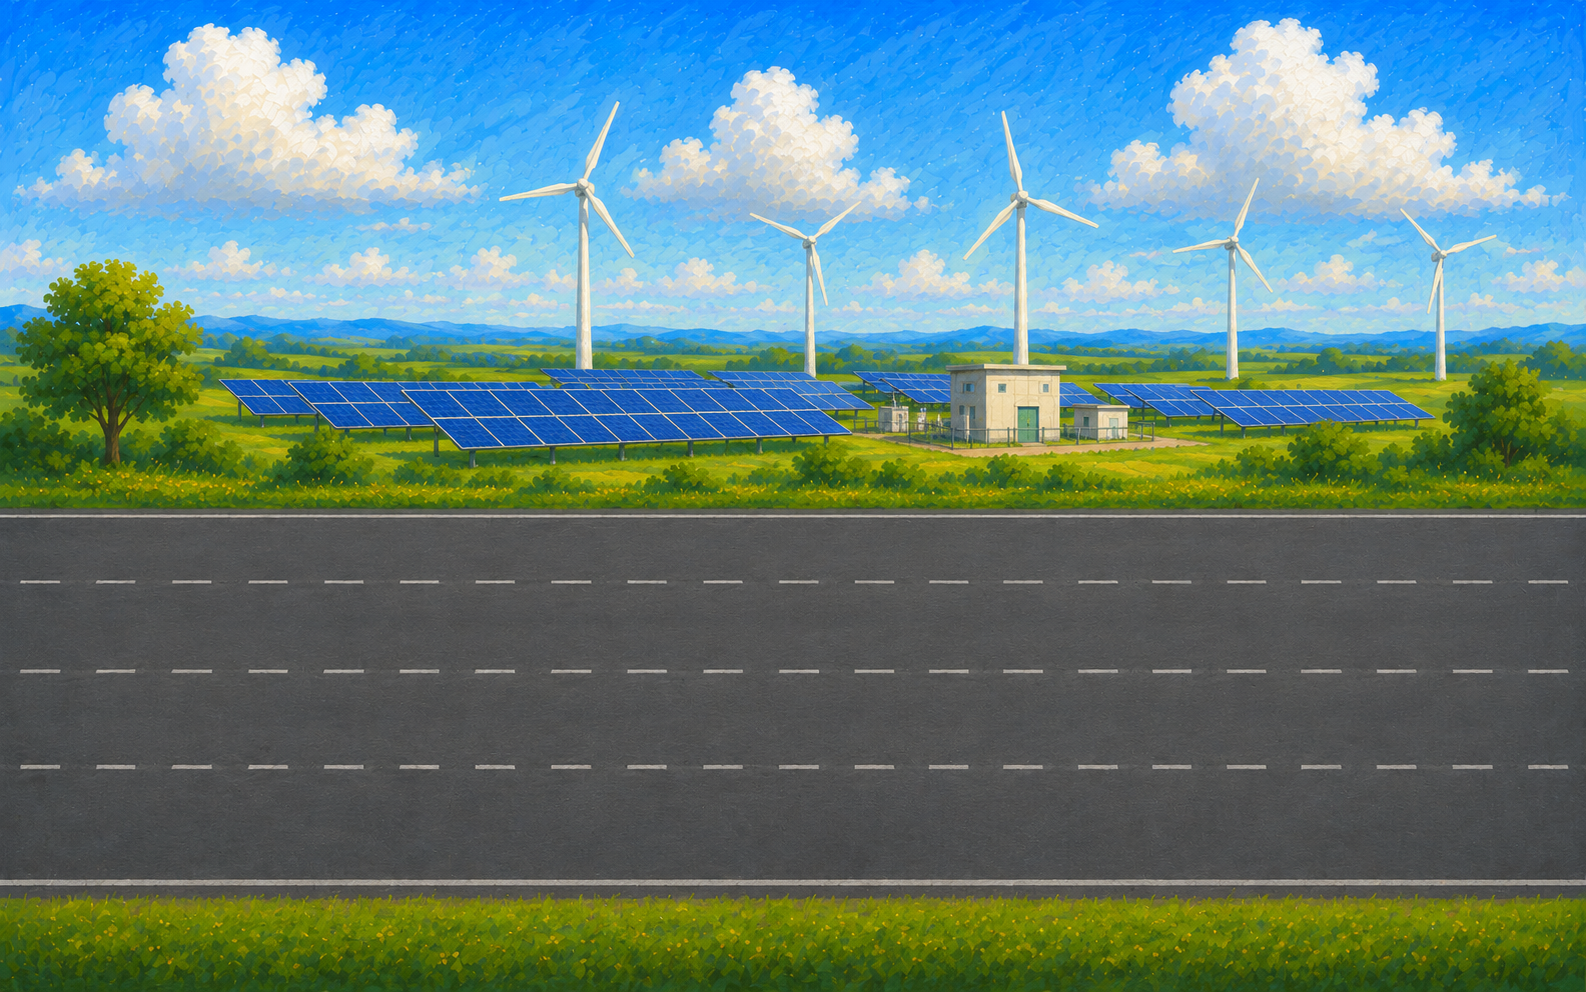
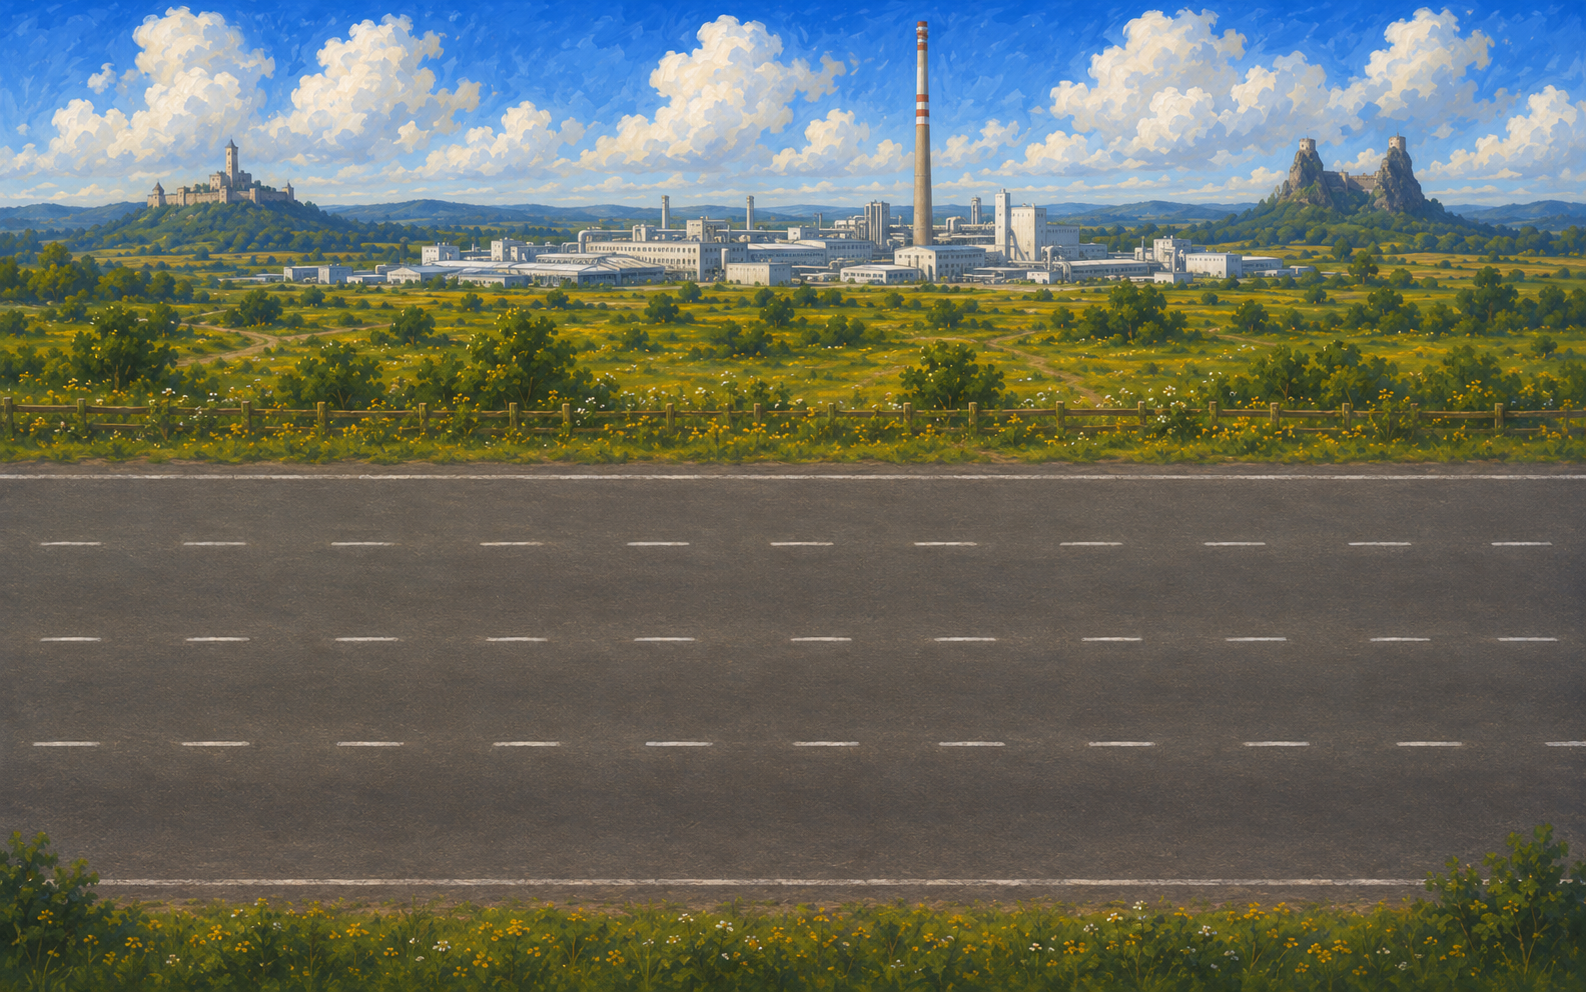
Re-art 4- and 5-lane backgrounds; split L9/L10 scenes
Replace pozadi_4/pozadi_5 (had a stray 6th lane) and add pozadi_5b so
levels 9 and 10 use distinct 5-lane scenes (windmills vs. police finale).
bgKey() picks "5b" for the police level; lane centres re-measured from the
new art so cars and pumps sit on the painted lanes.

diff --git a/game.js b/game.js
@@ -193,11 +193,14 @@
     // cars and stations sit exactly on the painted lanes — the markings aren't
     // evenly spaced, so we can't just divide the road band. Lane counts without
     // an image fall back to evenly spaced procedural grey lanes.
+    // Levels 9 and 10 both have 5 lanes but use different art: "5b" is the
+    // police-finale scene (see bgKey()), with its own re-measured lane centres.
     backgrounds: {
-      2: { src: "pozadi_2.png", lanes: [0.718, 0.832] },
-      3: { src: "pozadi_3.png", lanes: [0.611, 0.741, 0.871] },
-      4: { src: "pozadi_4.png", lanes: [0.553, 0.631, 0.724, 0.830] },
-      5: { src: "pozadi_5.png", lanes: [0.407, 0.496, 0.599, 0.708, 0.819] },
+      2:    { src: "pozadi_2.png",  lanes: [0.718, 0.832] },
+      3:    { src: "pozadi_3.png",  lanes: [0.611, 0.741, 0.871] },
+      4:    { src: "pozadi_4.png",  lanes: [0.514, 0.596, 0.697, 0.819] },
+      5:    { src: "pozadi_5.png",  lanes: [0.436, 0.523, 0.624, 0.732, 0.851] },
+      "5b": { src: "pozadi_5b.png", lanes: [0.482, 0.561, 0.655, 0.757, 0.862] },
     },
 
     // Each station has its own painted pump sprite (transparent PNG, measured
@@ -626,9 +629,17 @@
       bgCache[k] = rec;
     }
   }
+  // Which background art to use now. Normally one per lane count, but the
+  // 5-lane road has two scenes: level 9 uses "5", and the police finale
+  // (level 10+) uses "5b" — same lane count, different painted lane centres.
+  function bgKey() {
+    const n = laneCount();
+    if (n === 5 && state.level >= CONFIG.police.fromLevel) return "5b";
+    return n;
+  }
   // The loaded background record for the current lane count, or null.
   function currentBg() {
-    const rec = bgCache[laneCount()];
+    const rec = bgCache[bgKey()];
     return rec && rec.ready ? rec : null;
   }
 
@@ -714,7 +725,7 @@
   // (explicit centres in CONFIG); otherwise lanes are spread evenly across the
   // playfield below the HUD.
   function laneCenterY(laneIndex) {
-    const cfg = CONFIG.backgrounds[laneCount()];
+    const cfg = CONFIG.backgrounds[bgKey()];
     if (cfg && currentBg()) return cfg.lanes[laneIndex] * CONFIG.canvas.height;
     const top = CONFIG.hudHeight;
     const laneHeight = (CONFIG.canvas.height - top) / laneCount();
@@ -725,7 +736,7 @@
   // it's the average spacing between painted lane centres; otherwise the even
   // share of the playfield.
   function laneThickness() {
-    const cfg = CONFIG.backgrounds[laneCount()];
+    const cfg = CONFIG.backgrounds[bgKey()];
     if (cfg && currentBg() && cfg.lanes.length > 1) {
       const L = cfg.lanes;
       return ((L[L.length - 1] - L[0]) / (L.length - 1)) * CONFIG.canvas.height;
